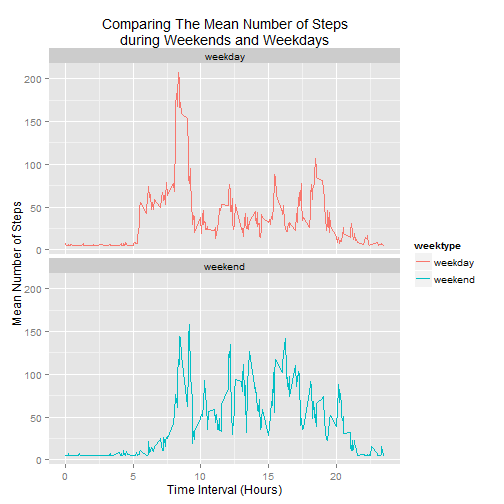
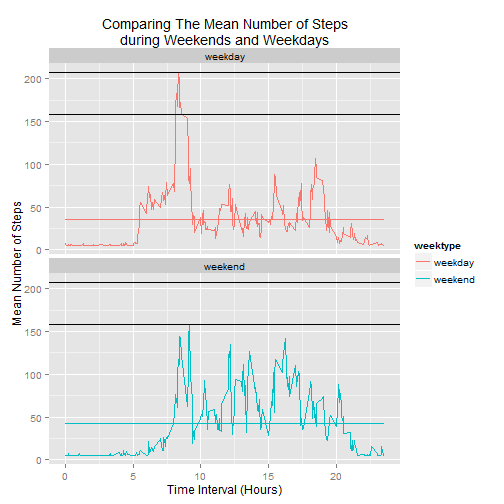
Latest changes to Assigment

diff --git a/PA1_template.html b/PA1_template.html
@@ -450,7 +450,7 @@ text(c(150), pos = 4, offset = 11.1, &quot;Time Interval=8:35 am&quot;, cex = 1,
 <pre><code>## [1] 0.8688525
 </code></pre>
 
-<p>We can see that the number of missing values or NAs  compared to the total number of values in the the whole data (2.19%) is few.  However, if we look at the percentage of NAs in the steps variable column, we find that a the number of NAs compared to the total number of observations in this column is high (13.11%). The high percentage of missing data in this variable column can significantly affect the analysis of the data involving this variable.  We can further investigate the distribution of these missing values.</p>
+<p>We can see that the number of missing values or NAs  compared to the total number of values in the the whole data (2.19%) is few.  However, if we look at the percentage of NAs in the steps variable column, we find that the number of NAs compared to the total number of observations in this column is high (13.11%). The high percentage of missing data in this variable column can significantly affect the analysis of the data involving this variable.  We can further investigate the distribution of these missing values.</p>
 
 <pre><code class="r">missing_values &lt;- is.na(act$steps)
 NA_days &lt;- act[missing_values, ]
@@ -506,7 +506,7 @@ print(wholeday_NAs[c(1, 8, 32, 35, 40, 41, 45, 61)])
 
 <h3>Distribution of missing values in the data</h3>
 
-<p>In the following we can see that there are more missing values in November than in October.  More Missing values are found in Mondays and Fridays (represented by 2 and 6) compared to the rest of the week and the NAs are uniformly distributed in the observation intervals throughout the day.</p>
+<p>In the following we can see that there are more missing values in November than in October.  More Missing values are found in Mondays and Fridays (represented by 2 and 6) compared to the rest of the week and there are no missing values on Tuesdays. The NAs are uniformly distributed in the observation intervals throughout the day.</p>
 
 <pre><code class="r">NAdf &lt;- act[is.na(act$steps), ]
 table(NAdf$months)
@@ -588,7 +588,7 @@ head(imp_act)
 ## 6    NA 2012-10-01       25 October       2  274
 </code></pre>
 
-<p>There are several strategies to replace missing values using single or multiple mean values.  The simplest solution to  replace the missing value is to use the impute function from the package Hmisc.  The impute function replaces all the missing values or NAs with a single value, the mean of all the values found in the variable column steps (37). </p>
+<p>There are several strategies to replace missing values using single or multiple mean values.  The simplest solution to  replace the missing values is to use the impute function from the package Hmisc.  The impute function replaces all the missing values or NAs with a single value, the mean of all the values found in the variable column steps (37). </p>
 
 <pre><code class="r">library(Hmisc)
 imp_act$steps &lt;- round(impute(imp_act$steps, mean))
@@ -611,7 +611,7 @@ head(imp_act)
 <pre><code>## [1] 0
 </code></pre>
 
-<p>We can see now that there are 0 missing values in our new data frame with imputed values.</p>
+<p>After imputation, we can see now that there are 0 missing values in our new data frame with imputed values.</p>
 
 <pre><code class="r">impactby_yday &lt;-group_by(imp_act, yday)
 impactsum_byyday &lt;- summarise(impactby_yday, sum(steps, na.rm = TRUE))
@@ -660,11 +660,13 @@ text(c(14,14), pos = 4, &quot;Median=10,656&quot;, cex = 1, col = &quot;magenta&
 
 <p>Do these values differ from the estimates from the first part of the assignment? What is the impact of imputing missing data on the estimates of the total daily number of steps? Let&#39;s compare it with the original data.</p>
 
-<p>Comparing the histograms of the data with NAs and the one with imputed values we can see that the mean and median of the data set with imputed values are closer together, indicating that the distribution of values in the steps variable have narrowed or grown closer together.  Results appear to have homogenized. Although, range, the maximum and the minimum value, are not affected. Values approximating the mean increased in frequency</p>
+<p>Comparing the histograms of the data with NAs and the one with imputed values we can see that the mean and median of the data set with imputed values are closer together, indicating that the distribution of values in the steps variable have narrowed or grown closer together.  Results appear to have homogenized. Although, range, the maximum and the minimum value, are not affected. Values approximating the mean increased in frequency as expected.</p>
 
 <p>A study  entitled <a href="http://www.biomedcentral.com/1471-2105/16/64">&ldquo;Impact of missing data imputation methods on gene expression clustering and classification&rdquo;</a> performed a broad analysis of the impact of five well-known missing value imputation methods on three clustering and four classification methods in the context of 12 cancer gene expression datasets. </p>
 
-<p>Their results suggest that the imputation methods evaluated have a minor impact on the classification and downstream clustering analyses and concluded that simple methods such as replacing the missing values by mean or the median values performed as well as more complex strategies..</p>
+<p>Their results suggest that the imputation methods evaluated have a minor impact on the classification and downstream clustering analyses and concluded that simple methods such as replacing the missing values by mean or the median values performed as well as more complex strategies.</p>
+
+<p>However, our esteemed professor, Dr. Roger D Peng in his lecture video <a href="https://class.coursera.org/repdata-033/lecture/45">Evidence-based Data Analysis Part 3</a> explicitly stated that replacing missing values should not be performed.  In the particular scenario of a pollution study, data is hard to collect.  Data is collected once every six days and values are systematically missing for five days. &ldquo;Imputing values for the days where there are no observation simply add more noise to the data&rdquo;.</p>
 
 <h3>An alternative way to impute using multiple mean values.</h3>
 
@@ -780,7 +782,7 @@ text(c(14,14), pos = 4, &quot;Median=10,656&quot;, cex = 1, col = &quot;magenta&
 
[1 lines of base64/hex data omitted]
 
-<p>Imputation by single mean value or multiple mean values resulted in the median approximating the mean value and values approximating the mean increased in frequency. </p>
+<p>Imputation by single mean value or multiple mean values resulted in the median approximating the mean value and values approximating the mean increased in frequency as expected. </p>
 
 <h2>Are there differences in activity patterns between weekdays and weekends?</h2>
 
@@ -808,21 +810,20 @@ head(sumimp_byintwkt)
 <p>To visually compare the activity level during weekdays (Monday-Friday) and weekends (Saturday and Sunday), we make a panel plot containing a time series plot (i.e. type = &ldquo;l&rdquo;) of the 5-minute interval (x-axis) and the average number of steps taken, averaged across all weekday days or weekend days (y-axis). </p>
 
 <pre><code class="r">library(ggplot2)
-g &lt;- ggplot(sumimp_byintwkt, aes(x = interval/100, y = mean_steps, color = weektype)) + geom_line() + facet_wrap(~weektype, ncol = 1, nrow = 2) + ggtitle(&quot;Comparing The Mean Number of Steps\nduring Weekends and Weekdays&quot;) + xlab(&quot;Time Interval (Hours)&quot;) + ylab(&quot;Mean Number of Steps&quot;)
+g &lt;- ggplot(sumimp_byintwkt, aes(x = interval/100, y = mean_steps, color = weektype)) + geom_line() + facet_wrap(~weektype, ncol = 1, nrow = 2) + ggtitle(&quot;Comparing The Mean Number of Steps\nduring Weekends and Weekdays&quot;) + xlab(&quot;Time Interval (Hours)&quot;) + ylab(&quot;Mean Number of Steps&quot;) + geom_hline(aes(yintercept= max(sumimp_byintwkt$mean_steps))) + geom_hline(aes(yintercept= max(subset(sumimp_byintwkt, sumimp_byintwkt$weektype == &quot;weekend&quot;)$mean_steps))) + geom_line(stat=&quot;hline&quot;, yintercept=&quot;mean&quot;)
 print(g)
 </code></pre>
 
[2 lines of base64/hex data omitted]
 
-<p>*We can see from the above that activity or the number of steps  increases abruptly and earlier during weekdays, plateaus, and then abruptly increase again, reaching peak levels around 9 am. </p>
-
-<p>*Activity or the number of steps during weekends begins gradually and have several small peaks throughout the day but never reaching the highest level seen during weekdays.  </p>
-
-<p>*Peak activity level in the afternoon are several during weekdays and weekends.  However, peak levels during weekdays are smaller compared to the peak activity levels in the afternoon on weekends.</p>
-
-<p>*Activity during weekdays tend to taper earlier (around 6 pm) during weekdays, compared to weekends, where activity levels begin to taper around 8 pm.</p>
-
-<p>There were more time intervals where peak levels were reached during weekdays compared to weekends, </p>
+<ol>
+<li><p>The black lines represent the difference between the mean maximum number of steps during weekdays and weekends.  </p></li>
+<li><p>The blue and pink lines represent the respective means of the mean number of steps during weekends and weekdays. It is surprising to know that the mean of the weekends (42.32) is greater than the mean during weekdays(35.56).</p></li>
+<li><p>We can see from the above that activity or the number of steps  increases abruptly and earlier during weekdays, plateaus, and then abruptly increase again, reaching peak levels between 8 and 9 am. </p></li>
+<li><p>In comparison, activity or the number of steps during weekends begins gradually and have several small peaks throughout the day but never reaching the highest level seen during weekdays.  </p></li>
+<li><p>Peak activity level in the afternoon are several during weekdays and weekends.  However, peak levels during weekdays are smaller compared to the peak activity levels in the afternoon on weekends.</p></li>
+<li><p>Activity during weekdays tend to taper earlier (around 6 pm) during weekdays, compared to weekends, where activity levels begin to taper around 8 pm.</p></li>
+</ol>
 
 <h2>Session Information</h2>
 
@@ -852,16 +853,15 @@ print(g)
 ##  [1] RColorBrewer_1.1-2  markdown_0.7.7      htmltools_0.2.6    
 ##  [4] digest_0.6.8        R6_2.1.0            splines_3.2.1      
 ##  [7] scales_0.2.5        assertthat_0.1      stringr_1.0.0      
-## [10] munsell_0.4.2       proto_0.3-10        highr_0.5          
-## [13] nnet_7.3-10         mime_0.3            acepack_1.3-3.3    
-## [16] DBI_0.3.1           labeling_0.3        MASS_7.3-43        
-## [19] plyr_1.8.3          stringi_0.5-5       magrittr_1.5       
-## [22] reshape2_1.4.1      rmarkdown_0.7       evaluate_0.7.2     
-## [25] gtable_0.1.2        colorspace_1.2-6    yaml_2.1.13        
-## [28] foreign_0.8-65      tools_3.2.1         parallel_3.2.1     
-## [31] cluster_2.0.3       gridExtra_2.0.0     lazyeval_0.1.10    
-## [34] formatR_1.2         rpart_4.1-10        Rcpp_0.12.0        
-## [37] latticeExtra_0.6-26
+## [10] munsell_0.4.2       proto_0.3-10        nnet_7.3-10        
+## [13] mime_0.3            acepack_1.3-3.3     DBI_0.3.1          
+## [16] labeling_0.3        MASS_7.3-43         plyr_1.8.3         
+## [19] stringi_0.5-5       magrittr_1.5        reshape2_1.4.1     
+## [22] rmarkdown_0.7       evaluate_0.7.2      gtable_0.1.2       
+## [25] colorspace_1.2-6    yaml_2.1.13         foreign_0.8-65     
+## [28] tools_3.2.1         parallel_3.2.1      cluster_2.0.3      
+## [31] gridExtra_2.0.0     lazyeval_0.1.10     formatR_1.2        
+## [34] rpart_4.1-10        Rcpp_0.12.0         latticeExtra_0.6-26
 </code></pre>
 
 </body>

diff --git a/PA1_template.md b/PA1_template.md
@@ -8,6 +8,8 @@ output:
 ---
 
 
+
+
 ## Introduction
 This course focuses on the concepts and tools behind reporting modern data analyses in a reproducible manner. Reproducible research is the idea that data analyses, and more generally, scientific claims, are published with their data and software code so that others may verify the findings and build upon them. The need for reproducibility is increasing dramatically as data analyses become more complex, involving larger datasets and more sophisticated computations. Reproducibility allows for people to focus on the actual content of a data analysis, rather than on superficial details reported in a written summary Taken from the website of [Reproducible Research](https://www.coursera.org/course/repdata).
 
@@ -710,20 +712,23 @@ To visually compare the activity level during weekdays (Monday-Friday) and weeke
 
 ```r
 library(ggplot2)
-g <- ggplot(sumimp_byintwkt, aes(x = interval/100, y = mean_steps, color = weektype)) + geom_line() + facet_wrap(~weektype, ncol = 1, nrow = 2) + ggtitle("Comparing The Mean Number of Steps\nduring Weekends and Weekdays") + xlab("Time Interval (Hours)") + ylab("Mean Number of Steps")
+g <- ggplot(sumimp_byintwkt, aes(x = interval/100, y = mean_steps, color = weektype)) + geom_line() + facet_wrap(~weektype, ncol = 1, nrow = 2) + ggtitle("Comparing The Mean Number of Steps\nduring Weekends and Weekdays") + xlab("Time Interval (Hours)") + ylab("Mean Number of Steps") + geom_hline(aes(yintercept= max(sumimp_byintwkt$mean_steps))) + geom_hline(aes(yintercept= max(subset(sumimp_byintwkt, sumimp_byintwkt$weektype == "weekend")$mean_steps))) + geom_line(stat="hline", yintercept="mean")
 print(g)
 ```
 
 ![plot of chunk timeser2](figure/timeser2-1.png) 
 
+1. The black lines represent the difference between the mean maximum number of steps during weekdays and weekends.  
 
-*We can see from the above that activity or the number of steps  increases abruptly and earlier during weekdays, plateaus, and then abruptly increase again, reaching peak levels between 8 and 9 am. 
+2. The blue and pink lines represent the respective means of the mean number of steps during weekends and weekdays. It is surprising to know that the mean of the weekends (42.32) is greater than the mean during weekdays(35.56).
 
-*Ini comparison, activity or the number of steps during weekends begins gradually and have several small peaks throughout the day but never reaching the highest level seen during weekdays.  
+2. We can see from the above that activity or the number of steps  increases abruptly and earlier during weekdays, plateaus, and then abruptly increase again, reaching peak levels between 8 and 9 am. 
 
-*Peak activity level in the afternoon are several during weekdays and weekends.  However, peak levels during weekdays are smaller compared to the peak activity levels in the afternoon on weekends.
+2. In comparison, activity or the number of steps during weekends begins gradually and have several small peaks throughout the day but never reaching the highest level seen during weekdays.  
 
-*Activity during weekdays tend to taper earlier (around 6 pm) during weekdays, compared to weekends, where activity levels begin to taper around 8 pm.
+2. Peak activity level in the afternoon are several during weekdays and weekends.  However, peak levels during weekdays are smaller compared to the peak activity levels in the afternoon on weekends.
+
+2. Activity during weekdays tend to taper earlier (around 6 pm) during weekdays, compared to weekends, where activity levels begin to taper around 8 pm.
 
 ## Session Information
 
@@ -753,17 +758,16 @@ sessionInfo()
 ## [5] lattice_0.20-33 dplyr_0.4.2     knitr_1.11     
 ## 
 ## loaded via a namespace (and not attached):
-##  [1] RColorBrewer_1.1-2  markdown_0.7.7      digest_0.6.8       
-##  [4] htmltools_0.2.6     R6_2.1.0            splines_3.2.1      
+##  [1] RColorBrewer_1.1-2  markdown_0.7.7      htmltools_0.2.6    
+##  [4] digest_0.6.8        R6_2.1.0            splines_3.2.1      
 ##  [7] scales_0.2.5        assertthat_0.1      stringr_1.0.0      
-## [10] munsell_0.4.2       proto_0.3-10        highr_0.5          
-## [13] nnet_7.3-10         mime_0.3            acepack_1.3-3.3    
-## [16] DBI_0.3.1           labeling_0.3        MASS_7.3-43        
-## [19] plyr_1.8.3          stringi_0.5-5       magrittr_1.5       
-## [22] reshape2_1.4.1      rmarkdown_0.7       evaluate_0.7.2     
-## [25] gtable_0.1.2        colorspace_1.2-6    foreign_0.8-65     
-## [28] yaml_2.1.13         tools_3.2.1         parallel_3.2.1     
-## [31] cluster_2.0.3       gridExtra_2.0.0     lazyeval_0.1.10    
-## [34] formatR_1.2         rpart_4.1-10        Rcpp_0.12.0        
-## [37] latticeExtra_0.6-26
+## [10] munsell_0.4.2       proto_0.3-10        nnet_7.3-10        
+## [13] mime_0.3            acepack_1.3-3.3     DBI_0.3.1          
+## [16] labeling_0.3        MASS_7.3-43         plyr_1.8.3         
+## [19] stringi_0.5-5       magrittr_1.5        reshape2_1.4.1     
+## [22] rmarkdown_0.7       evaluate_0.7.2      gtable_0.1.2       
+## [25] colorspace_1.2-6    yaml_2.1.13         foreign_0.8-65     
+## [28] tools_3.2.1         parallel_3.2.1      cluster_2.0.3      
+## [31] gridExtra_2.0.0     lazyeval_0.1.10     formatR_1.2        
+## [34] rpart_4.1-10        Rcpp_0.12.0         latticeExtra_0.6-26
 ```
